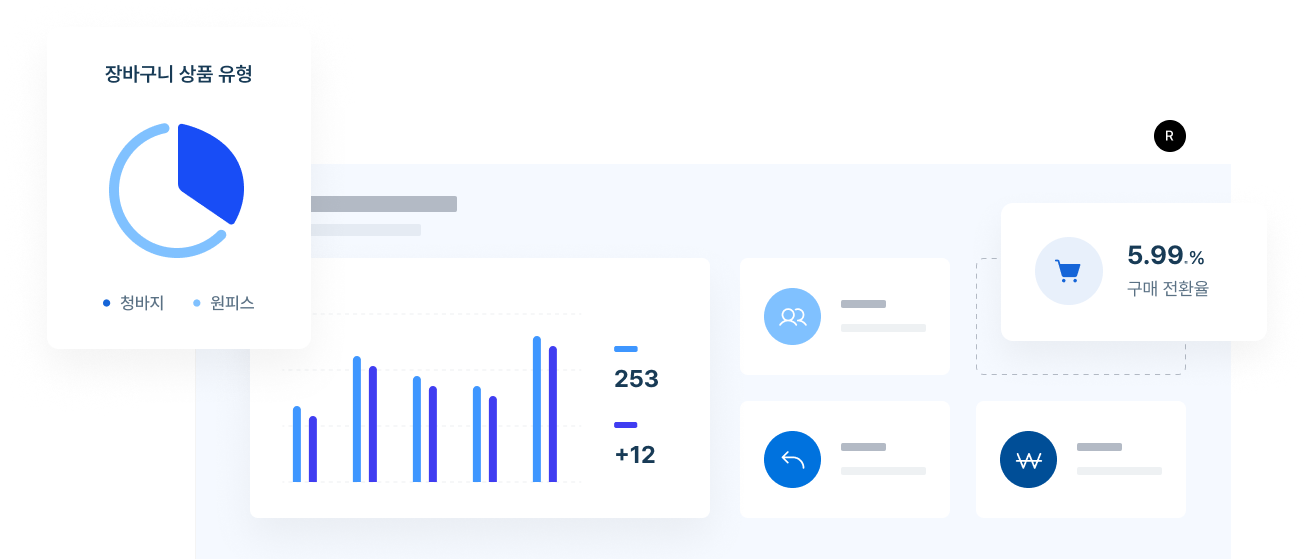
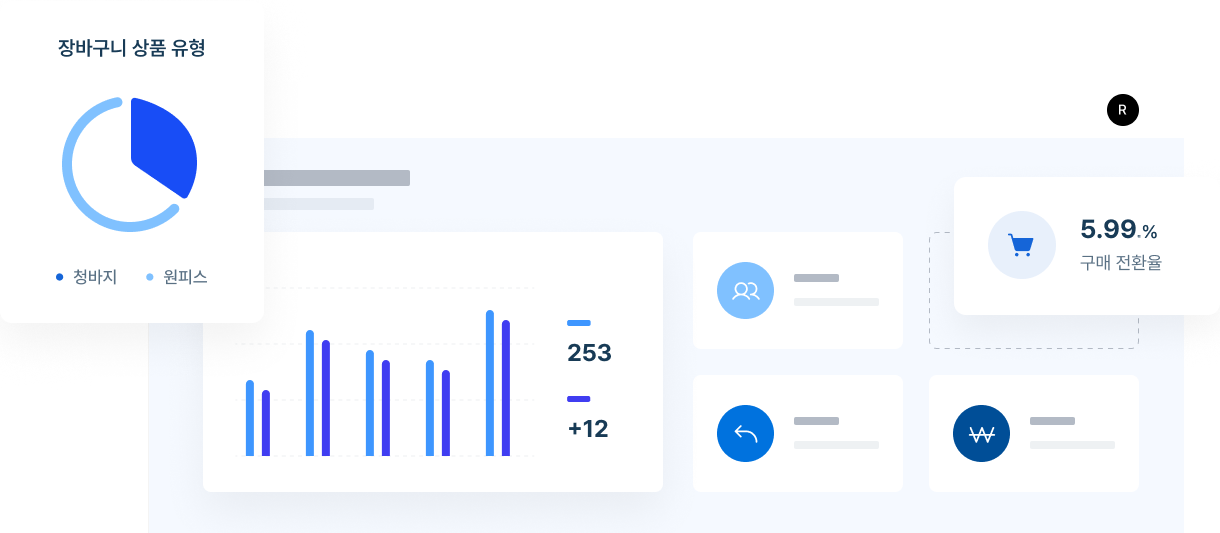
home - preview 이미지 재조정

diff --git a/app/components/views/preview.tsx b/app/components/views/preview.tsx
@@ -16,7 +16,7 @@ export const Preview = () => {
           unoptimized
         />
       </div>
-      <div className="flex flex-col content justify-center items-center gap-6 content card-text invisible">
+      <div className="flex flex-col content justify-center items-center gap-6 content card-text invisible pt-0 sm:pt-36">
         <p className="text-3xl sm:text-5xl xl:text-[66px] font-bold text-center sm:leading-tight xl:leading-[72px]">
           레코블의 인사이트를 통해
           <br />
@@ -37,9 +37,9 @@ export const Preview = () => {
           </div>
         </Link>
       </div>
-      <div className="content card-graph bg-gray-200 h-1/4 hidden sm:block invisible">
+      <div className="content card-graph bg-gray-200 w-full hidden sm:flex justify-center items-end invisible">
         <Image
-          className="ease-linear sm:object-contain"
+          className="ease-linear sm:object-contain xl:w-[1220px] px-8 h-2/5"
           src={mainImg as StaticImageData}
           alt="recoble composition"
           style={{ width: 'auto', height: 'auto', maxHeight: 562 }}

diff --git a/app/components/views/analyze.tsx b/app/components/views/analyze.tsx
@@ -1,5 +1,5 @@
 import React from 'react';
-import imgHomeContent2 from '@/public/images/img_home_content_02.png';
+import imgHomeContent2 from '@/public/images/img_home_content_02_1.png';
 import Image, { StaticImageData } from 'next/image';
 
 export const Analyze = () => {
@@ -17,8 +17,9 @@ export const Analyze = () => {
             개선 방법을 손쉽게 찾아볼 수 있어요.
           </p>
         </div>
-        <div className="w-full sm:w-3/5 lg:w-1/2 xl:w-[531px] content card-graph invisible">
+        <div className="w-full sm:w-3/5 p-10 xl:p-0 lg:w-1/2 xl:w-[575px] content card-graph invisible">
           <Image
+            className="object-contain"
             src={imgHomeContent2 as StaticImageData}
             alt="recoble customer view"
             style={{ width: 'auto', height: 'auto' }}

diff --git a/app/contact-us/components/mobile-swiper-container.tsx b/app/contact-us/components/mobile-swiper-container.tsx
@@ -5,7 +5,7 @@ import { Swiper, SwiperSlide } from 'swiper/react';
 import { Guide, InputForms } from '@/app/contact-us/components/views';
 import { Mousewheel } from 'swiper/modules';
 
-const SwiperContainer = () => {
+const MobileSwiperContainer = () => {
   return (
     <div className="lg:hidden w-full h-full">
       <Swiper
@@ -27,4 +27,4 @@ const SwiperContainer = () => {
   );
 };
 
-export default SwiperContainer;
+export default MobileSwiperContainer;

diff --git a/app/contact-us/page.tsx b/app/contact-us/page.tsx
@@ -1,11 +1,11 @@
-import SwiperContainer from '@/app/contact-us/components/swiper-container';
+import MobileSwiperContainer from '@/app/contact-us/components/mobile-swiper-container';
 import DesktopContainer from '@/app/contact-us/components/desktop-container';
 
 export default function Home() {
   return (
     <main className="contact-us">
       <DesktopContainer />
-      <SwiperContainer />
+      <MobileSwiperContainer />
     </main>
   );
 }

diff --git a/app/home.css b/app/home.css
@@ -5,7 +5,7 @@
 @layer components {
     .preview-section {
         @apply w-full h-screen min-h-[420px] bg-gray-200 overflow-clip;
-        @apply flex flex-col justify-center items-center gap-6 p-2;
+        @apply flex flex-col justify-center sm:justify-between items-center gap-6 px-2;
     }
 
     .analyze-section {
